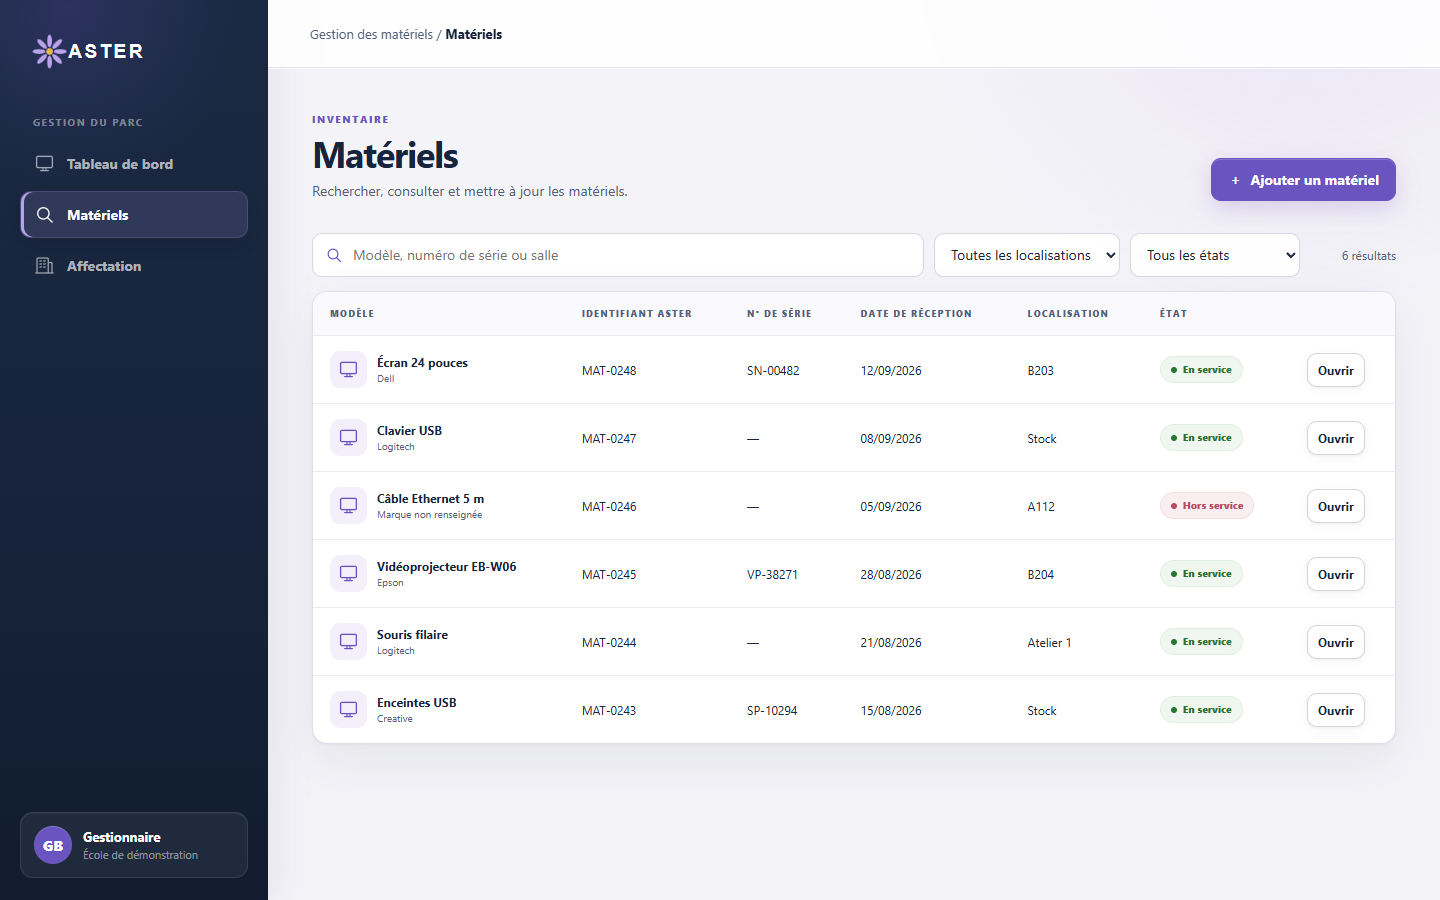
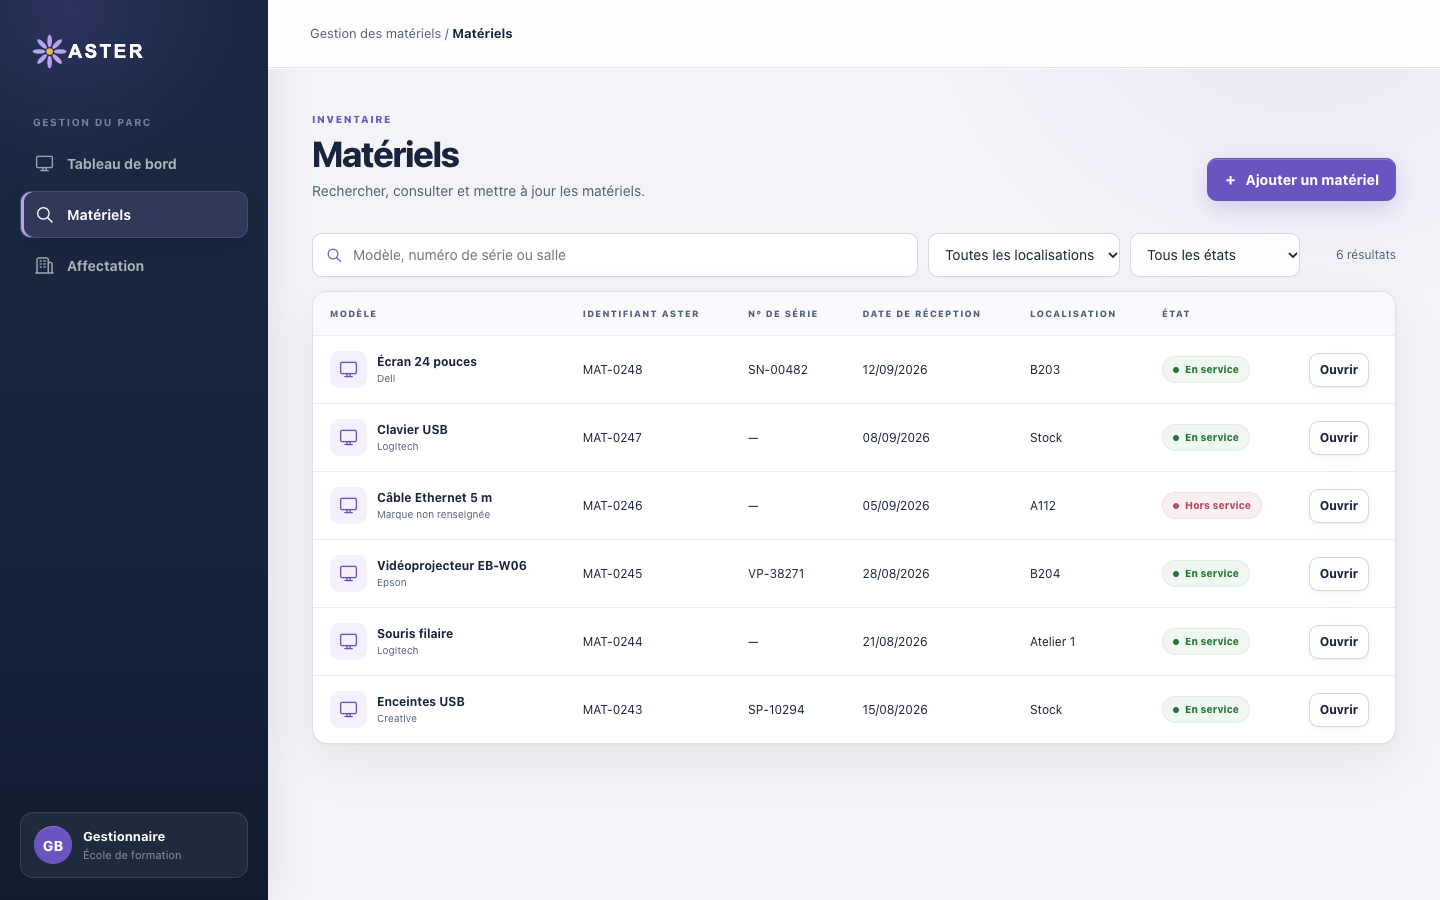
docs(maquettes): adapter les écrans et captures à la cible

diff --git a/design/maquettes/gestion-materiels.html b/design/maquettes/gestion-materiels.html
@@ -3,7 +3,7 @@
 <head>
   <meta charset="utf-8">
   <meta name="viewport" content="width=device-width, initial-scale=1">
-  <title>ASTER — Démonstrateur de gestion du parc</title>
+  <title>ASTER — Gestion du parc</title>
   <link rel="icon" href="../assets/favicon.svg" type="image/svg+xml">
   <style>
     :root {
@@ -188,14 +188,14 @@
           <button type="button" data-screen="groupe"><img src="../assets/icons/salles.svg" alt=""><span>Affectation</span></button>
         </nav>
       </div>
-      <div class="profile"><div class="avatar">GB</div><div><strong>Gestionnaire</strong><small>École de démonstration</small></div></div>
+      <div class="profile"><div class="avatar">GB</div><div><strong>Gestionnaire</strong><small>École de formation</small></div></div>
     </aside>
 
     <main>
       <header class="topbar"><div class="breadcrumb">Gestion des matériels <span aria-hidden="true">/</span> <b id="breadcrumb">Tableau de bord</b></div></header>
       <div class="content">
         <section id="dashboard" class="screen">
-          <div class="page-head"><div><div class="eyebrow">École de démonstration</div><h1>Gestion du parc</h1><p class="sub">Localisation et état des matériels informatiques.</p></div><button class="btn primary" type="button" onclick="show('ajouter')"><span aria-hidden="true">＋</span> Ajouter un matériel</button></div>
+          <div class="page-head"><div><div class="eyebrow">École de formation</div><h1>Gestion du parc</h1><p class="sub">Localisation et état des matériels informatiques.</p></div><button class="btn primary" type="button" onclick="show('ajouter')"><span aria-hidden="true">＋</span> Ajouter un matériel</button></div>
           <div class="grid stats">
             <div class="card stat-card"><div class="stat-top">Matériels <span class="stat-icon"><img src="../assets/icons/materiel.svg" alt=""></span></div><div class="stat-number">248</div><div class="stat-foot">Référencés dans ASTER</div></div>
             <div class="card stat-card"><div class="stat-top">Affectés en salle <span class="stat-icon"><img src="../assets/icons/salles.svg" alt=""></span></div><div class="stat-number">185</div><div class="stat-foot">Sur 14 salles</div></div>
@@ -354,7 +354,7 @@
       current = { id: `MAT-${String(nextNumber).padStart(4, "0")}`, ...data, out: data.out === "true" };
       assets.unshift(current);
       event.target.reset();
-      toast("Matériel ajouté à la démonstration.");
+      toast("Matériel ajouté.");
       show("fiche");
     });
     document.getElementById("editForm").addEventListener("submit", event => {
